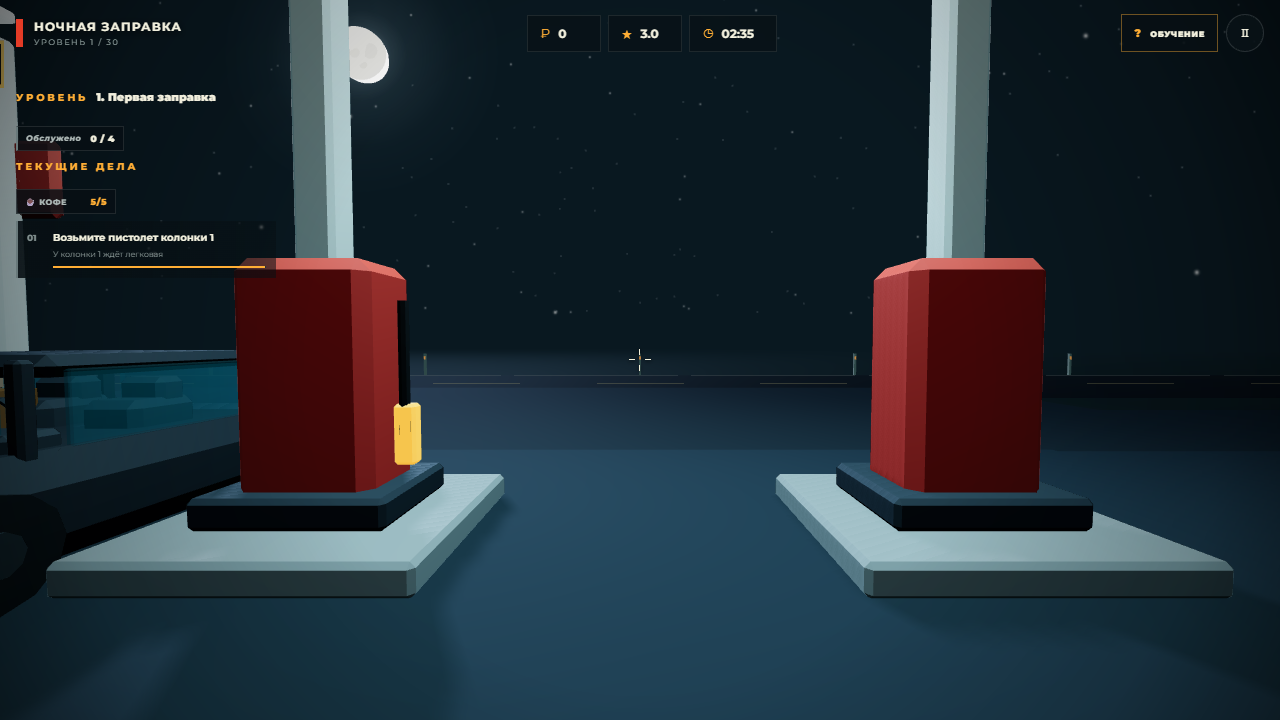
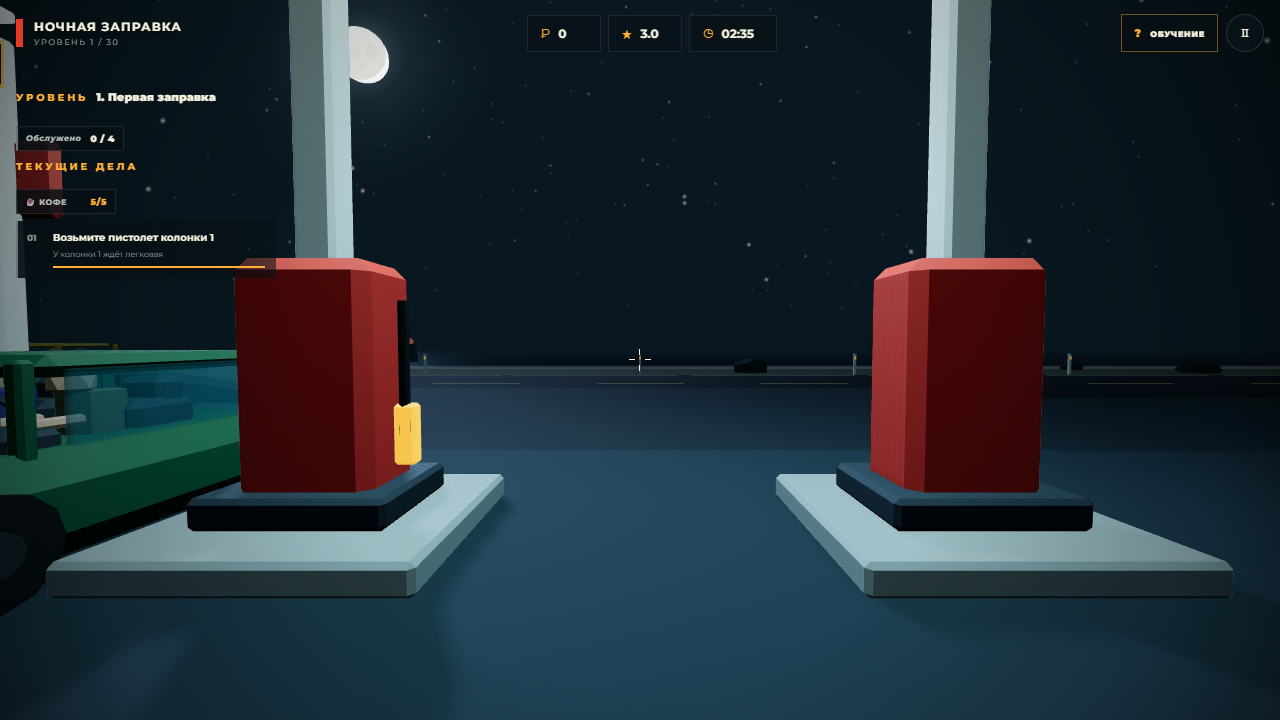
A sea behind the road, and four things that were in the way
The stylesheet was pulled in by the script, so the first second of the
first load was bare markup. It is a link in the head now, render-blocking
the way a stylesheet should be, with the page colour inline behind it.

The TANK plate floated over open ground a metre from anything. It sits
above the red sign on its post, which is what it was labelling.

Past the road there is a beach and a sea: a strip of sand with boulders,
three lines of surf, water to the horizon, and a moon path lying in the
direction the moon is actually drawn. Two buoys blink red and green off
the shore and a freighter stands further out with its windows lit —
from eye level a flat sea is a thin band, and the lights are what say
what it is. The waterline sits at road level on purpose: dropping the
beach below the embankment hid the water behind it, which I only found
by trying it.

Nothing selects any more — no long-press copy/paste bubble on a phone, no
context menu, no text highlight — and the screens lost their scrollbars
while keeping the scrolling.

The phone is now played by the test, not just measured: the stick drives,
a swipe on the right half turns the view, the action button finishes a
job, the station screen opens with tappable cards. That found a real one:
the look handler called setPointerCapture unguarded, and a refused
capture threw right out of the touch handler.

diff --git a/src/main.js b/src/main.js
@@ -1,6 +1,5 @@
 import * as THREE from 'three';
 import { GLTFLoader } from 'three/addons/loaders/GLTFLoader.js';
-import './style.css';
 import { AudioSystem } from './audio.js';
 import { initGamePush, loadLocal, saveProgress, showInterstitial, showRewarded, gpState, bindAdPause } from './gamepush.js';
 import { HandView } from './hands.js';
@@ -90,7 +89,7 @@ class NightStationGame{
     this.stationLights=[];
     [[-2.5,6,-7.4],[2.5,6,-7.4],[0,4,-.5]].forEach(([x,y,z],i)=>{const intensity=i===2?22:28,l=new THREE.PointLight(i===2?0xffdfad:0xb9efff,intensity,15,1.5);l.position.set(x,y,z);l.userData.onIntensity=intensity;l.castShadow=i===2;l.shadow.mapSize.set(512,512);this.scene.add(l);this.stationLights.push(l)});
     const moon=new THREE.DirectionalLight(0x86a3c5,3.1);moon.position.copy(MOON_DIRECTION).multiplyScalar(24);moon.castShadow=true;moon.shadow.mapSize.set(1024,1024);moon.shadow.camera.left=-22;moon.shadow.camera.right=22;moon.shadow.camera.top=22;moon.shadow.camera.bottom=-22;this.scene.add(moon);
-    const ground=new THREE.Mesh(new THREE.PlaneGeometry(180,180),new THREE.MeshStandardMaterial({color:0x182620,roughness:1}));ground.rotation.x=-Math.PI/2;ground.receiveShadow=true;this.scene.add(ground);
+    const ground=new THREE.Mesh(new THREE.PlaneGeometry(240,121),new THREE.MeshStandardMaterial({color:0x182620,roughness:1}));ground.rotation.x=-Math.PI/2;ground.position.set(0,0,33.5);ground.receiveShadow=true;this.scene.add(ground);
     // Площадка выросла влево: там открыли третий пост и приёмный пункт топлива.
     const forecourt=new THREE.Mesh(new THREE.PlaneGeometry(24,23),new THREE.MeshStandardMaterial({color:0x263239,roughness:.95}));forecourt.rotation.x=-Math.PI/2;forecourt.position.set(-2.5,.012,-5);forecourt.receiveShadow=true;this.scene.add(forecourt);
     // Трасса тянется дальше, чем видит туман: машины успевают выехать и уехать по дороге.
@@ -101,6 +100,46 @@ class NightStationGame{
     for(let x=-66;x<67;x+=6){const s=new THREE.Mesh(new THREE.PlaneGeometry(3.2,.13),stripeMat);s.rotation.x=-Math.PI/2;s.position.set(x,.035,ROAD.center);this.scene.add(s)}
     for(let x=-66;x<67;x+=8){const e=new THREE.Mesh(new THREE.PlaneGeometry(7.4,.1),edgeMat);e.rotation.x=-Math.PI/2;e.position.set(x,.034,ROAD.center-4.2);this.scene.add(e)}
     for(let x=-60;x<61;x+=10){const p=new THREE.Mesh(new THREE.BoxGeometry(.1,1,.1),postMat);p.position.set(x,.5,ROAD.center-4.9);this.scene.add(p);const r=new THREE.Mesh(new THREE.PlaneGeometry(.09,.16),reflectMat);r.position.set(x,.8,ROAD.center-4.84);this.scene.add(r)}
+    // За трассой — узкий пляж и море. Всё лежит на уровне дороги: с высоты глаз
+    // вода видна только так, любой обрыв вниз её бы спрятал.
+    const sandMat=new THREE.MeshStandardMaterial({color:0x4a422f,roughness:1});
+    const sand=new THREE.Mesh(new THREE.PlaneGeometry(260,5.4),sandMat);
+    sand.rotation.x=-Math.PI/2;sand.position.set(0,.03,-28.7);sand.receiveShadow=true;this.scene.add(sand);
+    const sea=new THREE.Mesh(new THREE.PlaneGeometry(340,140),new THREE.MeshStandardMaterial({color:0x123444,roughness:.13,metalness:.62}));
+    sea.rotation.x=-Math.PI/2;sea.position.set(0,.015,-101.4);this.scene.add(sea);
+    // Прибой: три полосы пены вдоль кромки, чем дальше — тем тише.
+    for(const [z,depth,opacity] of [[-31.5,1.3,.8],[-32.9,.8,.5],[-34.8,.5,.3]]){
+      const foam=new THREE.Mesh(new THREE.PlaneGeometry(250,depth),new THREE.MeshBasicMaterial({color:0xbde4e9,transparent:true,opacity,fog:true}));
+      foam.rotation.x=-Math.PI/2;foam.position.set(0,.024,z);this.scene.add(foam);
+    }
+    // Дорожка от луны лежит в ту же сторону, где луна и нарисована.
+    const moonPath=new THREE.Mesh(new THREE.PlaneGeometry(15,110),new THREE.MeshBasicMaterial({color:0xa8cdea,transparent:true,opacity:.34,blending:THREE.AdditiveBlending,depthWrite:false,fog:true}));
+    moonPath.rotation.x=-Math.PI/2;moonPath.rotation.z=-Math.atan2(MOON_DIRECTION.x,MOON_DIRECTION.z);
+    moonPath.position.set(MOON_DIRECTION.x*-60,.026,MOON_DIRECTION.z*-60-18);this.scene.add(moonPath);
+    // Валуны на песке: берег не должен быть ровным листом.
+    const stoneMat=new THREE.MeshStandardMaterial({color:0x1b211f,roughness:1});
+    for(let i=0;i<18;i++){
+      const stone=new THREE.Mesh(new THREE.DodecahedronGeometry(.3+Math.random()*.75,0),stoneMat);
+      const side=Math.random()<.5?-1:1;
+      stone.position.set(side*(5+Math.random()*76),.2,-26.6-Math.random()*4.4);
+      stone.scale.set(1,.5+Math.random()*.45,1);stone.rotation.y=Math.random()*3;this.scene.add(stone);
+    }
+    // Два буя и далёкий сухогруз: по огням на воде море читается сразу.
+    const buoyMat=new THREE.MeshStandardMaterial({color:0x2a3338,roughness:.8});
+    for(const [x,z,color] of [[-17,-40,0xff5340],[24,-47,0x4ade80]]){
+      const buoy=new THREE.Mesh(new THREE.CylinderGeometry(.45,.6,1.5,8),buoyMat);
+      buoy.position.set(x,.6,z);this.scene.add(buoy);
+      const lamp=new THREE.Mesh(new THREE.SphereGeometry(.26,8,6),new THREE.MeshBasicMaterial({color,fog:true}));
+      lamp.position.set(x,1.5,z);this.scene.add(lamp);
+    }
+    const hull=new THREE.Mesh(new THREE.BoxGeometry(16,1.8,4),new THREE.MeshStandardMaterial({color:0x10181d,roughness:.9}));
+    hull.position.set(36,.9,-66);this.scene.add(hull);
+    const deck=new THREE.Mesh(new THREE.BoxGeometry(4.4,2.4,3.2),hull.material);
+    deck.position.set(41,2.9,-66);this.scene.add(deck);
+    for(const [x,y] of [[39.6,3.2],[41,3.2],[42.4,3.2]]){
+      const window=new THREE.Mesh(new THREE.PlaneGeometry(.8,.5),new THREE.MeshBasicMaterial({color:0xffd9a3,fog:true}));
+      window.position.set(x,y,-64.35);this.scene.add(window);
+    }
     // Камни и сосны отодвинуты от левого крыла: там теперь работают, а не смотрят на лес.
     const offset=(side,near,far)=>side>0?near+Math.random()*far:-(near+5+Math.random()*far);
     const gravelMat=new THREE.MeshStandardMaterial({color:0x18201d,roughness:1});for(let i=0;i<24;i++){const rock=new THREE.Mesh(new THREE.DodecahedronGeometry(.12+Math.random()*.2,0),gravelMat);const side=Math.random()<.5?-1:1;rock.position.set(offset(side,10,15),.13,-5+Math.random()*23);rock.scale.y=.45;this.scene.add(rock)}
@@ -189,7 +228,7 @@ class NightStationGame{
     const fridgeLight=new THREE.PointLight(0x8fe6ff,7,4.2,1.9);fridgeLight.position.set(3.85,1.45,4.45);fridgeLight.userData.onIntensity=7;fridgeLight.castShadow=false;this.scene.add(fridgeLight);this.stationLights.push(fridgeLight);
     for(const x of [-11.4,6.4]){const flood=new THREE.PointLight(0xbfe2ff,0,30,1.4);flood.position.set(x,5.7,-11.2);flood.userData.onIntensity=22;flood.castShadow=false;this.scene.add(flood);this.floodLights.push(flood);this.stationLights.push(flood)}
     const upperLight=new THREE.PointLight(0xffd9a3,18,11,1.7);upperLight.position.set(0,5.45,1.1);upperLight.userData.onIntensity=18;upperLight.castShadow=false;this.scene.add(upperLight);this.stationLights.push(upperLight);
-    this.landmarkLabels=[this.createLandmarkLabel('КОФЕ','#37d5ef',new THREE.Vector3(-1.95,2.62,.88),1.65),this.createLandmarkLabel('СЭНДВИЧИ','#ffae35',new THREE.Vector3(1.95,2.62,.88),2.1,38),this.createLandmarkLabel('ГРИЛЬ','#ffae35',new THREE.Vector3(-3.72,2.34,4.45),1.6),this.createLandmarkLabel('ГАЗИРОВКА','#37d5ef',new THREE.Vector3(3.7,2.42,4.45),2.2),this.createLandmarkLabel('ЩИТОК','#ffae35',new THREE.Vector3(-4.02,2.55,1.2),1.8),this.createLandmarkLabel('НАХОДКИ','#37d5ef',new THREE.Vector3(3.98,2.08,-2.05),2.25),this.createLandmarkLabel('КАССА','#f4f2df',new THREE.Vector3(0,2.5,.78),1.5,40),this.createLandmarkLabel('СКЛАД ↑','#ffae35',new THREE.Vector3(5.82,2.62,-2.98),1.8),this.createLandmarkLabel('КОФЕ','#37d5ef',new THREE.Vector3(-3.3,5.22,5.45),1.35,42),this.createLandmarkLabel('СЭНДВИЧИ','#ffae35',new THREE.Vector3(-1.1,5.22,5.45),1.95,30),this.createLandmarkLabel('ХОТ-ДОГИ','#ff7a5f',new THREE.Vector3(1.1,5.22,5.45),1.95,36),this.createLandmarkLabel('ГАЗИРОВКА','#63d98a',new THREE.Vector3(3.3,5.22,5.45),2.05,34),this.createLandmarkLabel('ИНСТРУМЕНТЫ','#ffae35',new THREE.Vector3(3.3,5.5,1.3),2.1,34),this.createLandmarkLabel('УБОРКА','#37d5ef',new THREE.Vector3(3.3,5.5,-1.4),1.5,38),this.createLandmarkLabel('ПОСТ 3','#ffae35',new THREE.Vector3(-6.6,4.16,-8.02),1.5,42),this.createLandmarkLabel('РЕЗЕРВУАР','#37d5ef',new THREE.Vector3(-10.2,1.8,-2.4),2.1,36)];
+    this.landmarkLabels=[this.createLandmarkLabel('КОФЕ','#37d5ef',new THREE.Vector3(-1.95,2.62,.88),1.65),this.createLandmarkLabel('СЭНДВИЧИ','#ffae35',new THREE.Vector3(1.95,2.62,.88),2.1,38),this.createLandmarkLabel('ГРИЛЬ','#ffae35',new THREE.Vector3(-3.72,2.34,4.45),1.6),this.createLandmarkLabel('ГАЗИРОВКА','#37d5ef',new THREE.Vector3(3.7,2.42,4.45),2.2),this.createLandmarkLabel('ЩИТОК','#ffae35',new THREE.Vector3(-4.02,2.55,1.2),1.8),this.createLandmarkLabel('НАХОДКИ','#37d5ef',new THREE.Vector3(3.98,2.08,-2.05),2.25),this.createLandmarkLabel('КАССА','#f4f2df',new THREE.Vector3(0,2.5,.78),1.5,40),this.createLandmarkLabel('СКЛАД ↑','#ffae35',new THREE.Vector3(5.82,2.62,-2.98),1.8),this.createLandmarkLabel('КОФЕ','#37d5ef',new THREE.Vector3(-3.3,5.22,5.45),1.35,42),this.createLandmarkLabel('СЭНДВИЧИ','#ffae35',new THREE.Vector3(-1.1,5.22,5.45),1.95,30),this.createLandmarkLabel('ХОТ-ДОГИ','#ff7a5f',new THREE.Vector3(1.1,5.22,5.45),1.95,36),this.createLandmarkLabel('ГАЗИРОВКА','#63d98a',new THREE.Vector3(3.3,5.22,5.45),2.05,34),this.createLandmarkLabel('ИНСТРУМЕНТЫ','#ffae35',new THREE.Vector3(3.3,5.5,1.3),2.1,34),this.createLandmarkLabel('УБОРКА','#37d5ef',new THREE.Vector3(3.3,5.5,-1.4),1.5,38),this.createLandmarkLabel('ПОСТ 3','#ffae35',new THREE.Vector3(-6.6,4.16,-8.02),1.5,42),this.createLandmarkLabel('РЕЗЕРВУАР','#37d5ef',new THREE.Vector3(-11.5,2.26,-2.4),2.1,36)];
     for(const x of PUMP_SPOTS){const model=this.assets.pump.clone(true);model.position.set(x,.24,SLOT_Z);this.scene.add(model);const pump={x,z:SLOT_Z,model,car:null,broken:false,slotX:x+Math.sign(x)*SLOT_OFFSET,hoseSpot:new THREE.Vector3(x+.72,.25,SLOT_Z-.52),hoseParts:[]};model.traverse(o=>{if(o.name==='Hose'||o.name==='Nozzle')pump.hoseParts.push(o);if(o.isMesh&&o.name==='Display')this.powerVisuals.push(o)});this.pumps.push(pump)}
     this.closedSigns=this.pumps.map(pump=>{const label=this.createLandmarkLabel('ЗАКРЫТО','#ff5340',new THREE.Vector3(pump.x,3.02,pump.z+1.3),2.1,44);label.visible=false;return label});
     this.player=this.assets.worker.clone(true);this.player.position.set(0,.26,-3.35);this.player.scale.setScalar(.92);this.scene.add(this.player);
@@ -203,9 +242,12 @@ class NightStationGame{
     addEventListener('keydown',e=>{if(['KeyW','KeyA','KeyS','KeyD','ShiftLeft','ShiftRight','KeyE','Space'].includes(e.code))e.preventDefault();this.keys[e.code]=true;if(e.code==='KeyE')this.actionHeld=true;if(e.code==='Escape'&&this.mode==='playing')this.pause()});
     addEventListener('keyup',e=>{this.keys[e.code]=false;if(e.code==='KeyE'){this.actionHeld=false;this.actionProgress=0;this.actionLatched=false}});addEventListener('blur',()=>{this.keys={};this.actionHeld=false;this.actionLatched=false;this.joy={x:0,y:0}});
     this.canvas.addEventListener('click',()=>this.lockPointer());
+    // Игра, а не текст: длинный тап не выделяет и не открывает меню копирования.
+    addEventListener('contextmenu',e=>e.preventDefault());
+    addEventListener('selectstart',e=>e.preventDefault());
     addEventListener('mousemove',e=>{if(document.pointerLockElement!==this.canvas||this.mode!=='playing')return;this.yaw-=e.movementX*.0022;this.pitch=THREE.MathUtils.clamp(this.pitch-e.movementY*.0019,-1.35,1.25)});
     document.addEventListener('pointerlockchange',()=>{ui.lookHint.classList.toggle('hidden',isTouch||this.mode!=='playing'||document.pointerLockElement===this.canvas)});
-    this.canvas.addEventListener('pointerdown',e=>{if(!isTouch||this.mode!=='playing'||e.clientX<innerWidth*.32)return;this.lookTouch={id:e.pointerId,x:e.clientX,y:e.clientY};this.canvas.setPointerCapture(e.pointerId)});
+    this.canvas.addEventListener('pointerdown',e=>{if(!isTouch||this.mode!=='playing'||e.clientX<innerWidth*.32)return;this.lookTouch={id:e.pointerId,x:e.clientX,y:e.clientY};try{this.canvas.setPointerCapture(e.pointerId)}catch{}});
     this.canvas.addEventListener('pointermove',e=>{if(!this.lookTouch||e.pointerId!==this.lookTouch.id)return;const dx=e.clientX-this.lookTouch.x,dy=e.clientY-this.lookTouch.y;this.lookTouch.x=e.clientX;this.lookTouch.y=e.clientY;this.yaw-=dx*.006;this.pitch=THREE.MathUtils.clamp(this.pitch-dy*.005,-1.2,1.15)});
     const stopLook=e=>{if(this.lookTouch&&e.pointerId===this.lookTouch.id)this.lookTouch=null};this.canvas.addEventListener('pointerup',stopLook);this.canvas.addEventListener('pointercancel',stopLook);
     const joy=$('#joystick'),nub=$('#joystick i');let joyId=null;const update=e=>{const r=joy.getBoundingClientRect(),x=e.clientX-(r.left+r.width/2),y=e.clientY-(r.top+r.height/2),len=Math.hypot(x,y)||1,m=Math.min(38,len),nx=x/len,ny=y/len;this.joy={x:nx*m/38,y:ny*m/38};nub.style.transform=`translate(${nx*m}px,${ny*m}px)`};

diff --git a/src/style.css b/src/style.css
@@ -1,5 +1,8 @@
 :root{font-family:Montserrat,Arial,sans-serif;color:#f4f2df;background:#071015;font-synthesis:none;--red:#e43b26;--amber:#ffae35;--ink:#071015;--panel:rgba(8,17,22,.86)}
-*{box-sizing:border-box}html,body,#game{width:100%;height:100%;margin:0;overflow:hidden}body{touch-action:none;background:radial-gradient(circle at 50% 30%,#152d35,#060c10 70%)}button{font:inherit;color:inherit;cursor:pointer}canvas{display:block;width:100%;height:100%;outline:none}button:focus-visible{outline:3px solid var(--amber);outline-offset:3px}.hidden{display:none!important}
+*{box-sizing:border-box;-webkit-user-select:none;user-select:none;-webkit-touch-callout:none;-webkit-tap-highlight-color:transparent}html,body,#game{width:100%;height:100%;margin:0;overflow:hidden}body{touch-action:none;background:radial-gradient(circle at 50% 30%,#152d35,#060c10 70%)}button{font:inherit;color:inherit;cursor:pointer;touch-action:manipulation}canvas{display:block;width:100%;height:100%;outline:none}button:focus-visible{outline:3px solid var(--amber);outline-offset:3px}.hidden{display:none!important}
+/* Экраны листаются колесом и пальцем, полоса прокрутки только мешает картинке. */
+.levels-card,.guide-card,.results-card,.tutorial-card,.dialog{scrollbar-width:none;-ms-overflow-style:none}
+.levels-card::-webkit-scrollbar,.guide-card::-webkit-scrollbar,.results-card::-webkit-scrollbar,.tutorial-card::-webkit-scrollbar,.dialog::-webkit-scrollbar{width:0;height:0;display:none}
 #vignette{position:fixed;inset:0;pointer-events:none;z-index:2;background:radial-gradient(circle at center,transparent 45%,rgba(0,0,0,.25) 80%,rgba(0,0,0,.55));mix-blend-mode:multiply}
 .screen{position:fixed;inset:0;z-index:20;display:grid;place-items:center;background:linear-gradient(90deg,rgba(2,8,11,.94),rgba(2,8,11,.5)),radial-gradient(circle at 70% 40%,rgba(30,64,70,.55),rgba(2,8,11,.9));padding:22px}
 #loading{z-index:40;text-align:center}#loading h1{font-size:clamp(32px,7vw,74px);line-height:.87;letter-spacing:-.07em;margin:24px 0 14px;font-weight:900}em{font-style:normal;color:var(--red)}#loading p{font-size:11px;letter-spacing:.2em;color:#aab6b4}.loadbar{width:min(310px,70vw);height:3px;background:#304047;margin:25px auto}.loadbar i{display:block;height:100%;width:10%;background:var(--red);transition:width .25s}.loading-mark{display:flex;gap:8px;justify-content:center}.loading-mark span{width:12px;height:38px;background:var(--red);transform:skew(-12deg)}.loading-mark span:nth-child(2){height:52px;margin-top:-7px;background:#f1e7c8}.loading-mark span:nth-child(3){background:var(--amber)}

diff --git a/index.html b/index.html
@@ -6,6 +6,9 @@
   <meta name="theme-color" content="#071015" />
   <meta name="description" content="Ночная заправка 3D — уютный симулятор ночной смены с необычными посетителями." />
   <title>Ночная заправка 3D</title>
+  <!-- Стиль грузится вместе со страницей: иначе первый кадр успевает мигнуть голой разметкой. -->
+  <link rel="stylesheet" href="/src/style.css" />
+  <style>html,body{margin:0;height:100%;background:#071015;overflow:hidden}</style>
 </head>
 <body>
   <div id="game"><canvas id="scene" aria-label="Игровая сцена"></canvas></div>

diff --git a/README.md b/README.md
@@ -26,6 +26,7 @@
 - **Магазин.** Кофе и витрина с едой стоят на прилавке, роликовый гриль с хот-догами и холодильник с газировкой — в подсобке за ним. Заказ готовят у нужного аппарата и выдают на кассе, перед тем, кто его ждёт. Хот-дог дороже и дольше всех, газировка — самая быстрая.
 - **Предметы в руках.** Всё, что игрок взял, видно в нижней части экрана: стакан кофе с паром, сэндвич, коробка товара, забытая сумка, швабра и инструменты. Предметы покачиваются при ходьбе, ведут за поворотом камеры и отыгрывают само действие — шваброй возят по полу, отвёрткой крутят.
 - **Инвентарь.** Весь он стоит на складе у двери: на верстаке ящик с инструментом, рядом швабра с ведром. Инструментом чинят заклинившую колонку и выбитый щиток, шваброй убирают разлитый кофе — а пока пятно на полу, прилавок закрыт: заказы не готовят и не выдают, и ожидание у кассы на это время замирает. И то и другое можно взять и вернуть в любой момент; если руки понадобились под груз, они возвращаются на место сами. За инвентарём стоит сходить заранее: ночью подниматься некогда.
+- **Море за трассой.** По ту сторону дороги — узкий песчаный пляж с валунами, полосы прибоя и вода до горизонта. На воде лежит лунная дорожка ровно с той стороны, где нарисована луна, у берега мигают два буя, а вдали стоит сухогруз с освещёнными окнами. На рассвете берег видно целиком.
 - **Ночное небо.** Над трассой висит луна с ореолом, вокруг — звёздное небо с млечным путём и редкими метеорами. Лунный свет падает именно оттуда, где нарисована луна, а само небо не ловит туман и едет за камерой, поэтому кажется бесконечно далёким.
 - **Рассвет.** Последнюю минуту смены небо отрабатывает само: над трассой справа разгорается тёплая полоса, звёзды и млечный путь гаснут, луна бледнеет, туман редеет, а площадка светлеет. Конец смены становится видно раньше, чем на него посмотришь в часы, — и на этом же рассвете заканчивается кампания.
 - **Прыжок.** `Space` на ПК и кнопка «Прыжок» на телефоне. Прыжок работает только по вертикали: перепрыгнуть прилавок, колонку или машину нельзя, зато предмет в руках отстаёт в полёте и проседает при приземлении.
